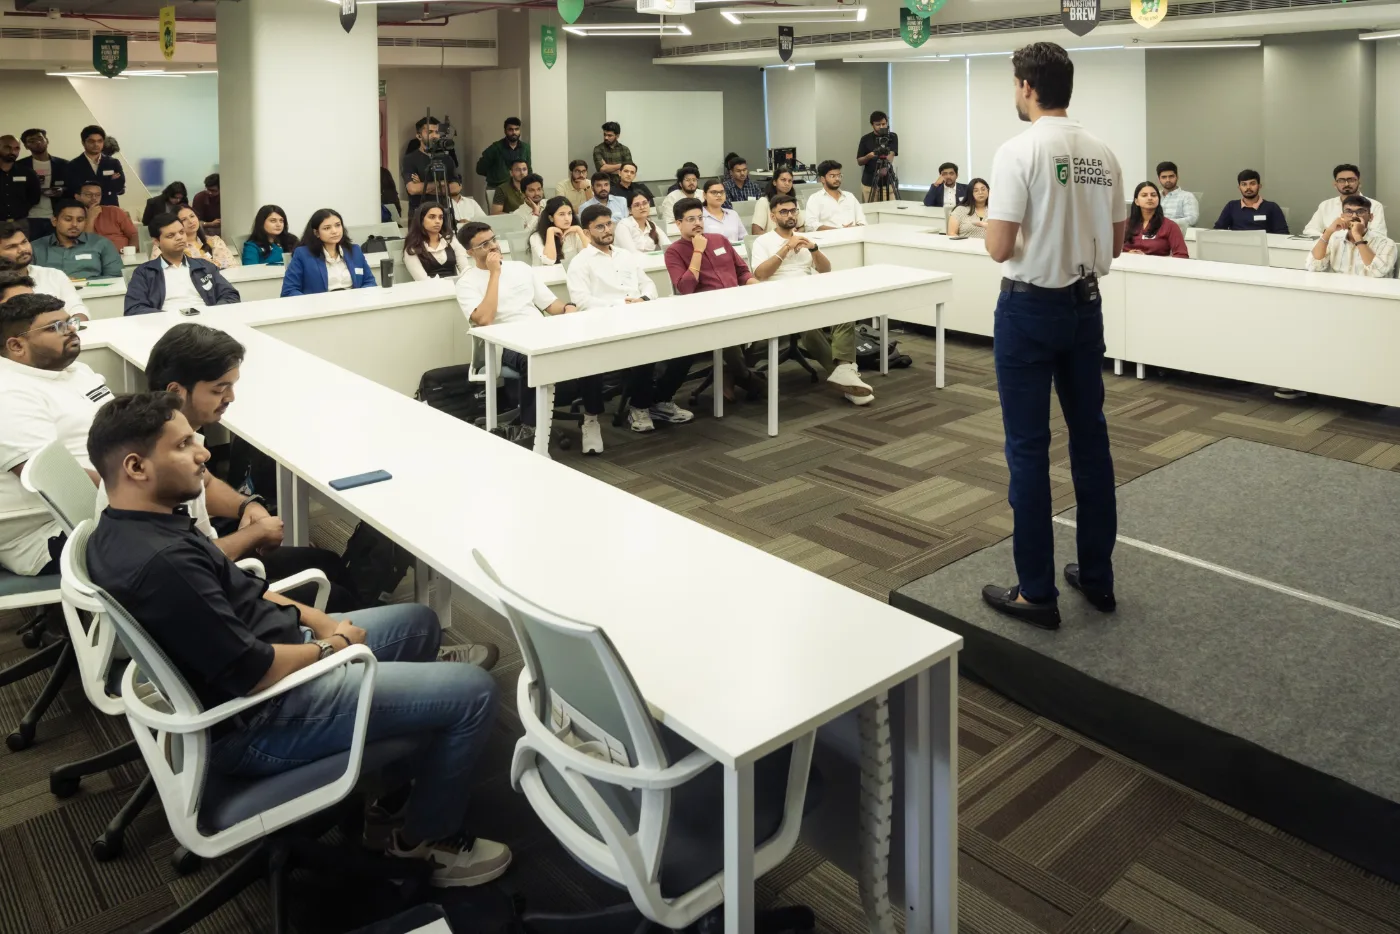
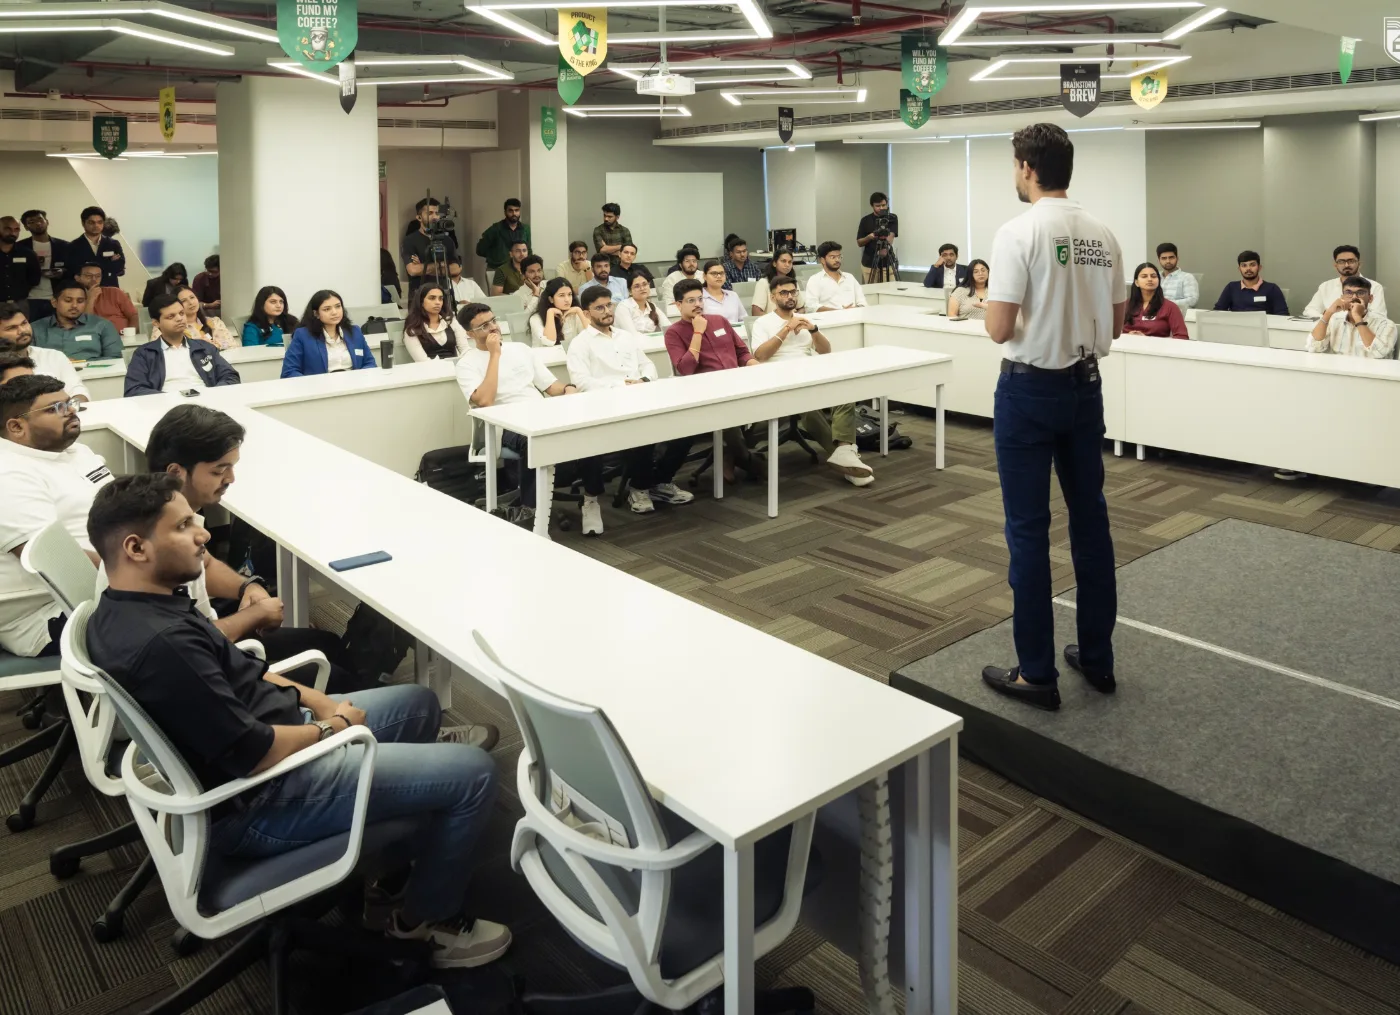
Terms 1 and 5: photos that hold faces on a phone's strip as well as the desktop card

diff --git a/src/sections/curriculum/journey/concepts/stage.tsx b/src/sections/curriculum/journey/concepts/stage.tsx
@@ -13,14 +13,16 @@ import './stage.css';
 
 /** The terms' photos, and their focal points. (2026-11-19, the user's picks) the team's own: 1 a class in
  *  session and 2 a team working a problem at the table (the old campus activities shoot), 3 a pitch on SSB's
- *  stage, 4 a student making his point in class (the same shoot), 5 Anupam Mittal on his visit. The shoot's
- *  corner logo is cropped off each file. */
+ *  stage, 4 a student making his point in class (the same shoot), 5 Anupam Mittal with the student founders who pitched him
+ *  (his close portrait was cut on a phone's strip). The shoot's
+ *  corner logo is cropped off each file (1's from the right edge only, so the speaker keeps his headroom). The
+ *  focal points hold faces in both shapes: the tall card on desktop, the wide strip on a phone (2026-11-19). */
 export const PHOTO: Record<number, { src: string; pos: string }> = {
-  1: { src: '/media/terms/t1.webp', pos: '72% 50%' },
-  2: { src: '/media/terms/t2.webp', pos: '52% 50%' },
+  1: { src: '/media/terms/t1.webp', pos: '72% 20%' },
+  2: { src: '/media/terms/t2.webp', pos: '52% 35%' },
   3: { src: '/media/terms/t3.webp', pos: '50% 45%' },
   4: { src: '/media/terms/t4.webp', pos: '50% 50%' },
-  5: { src: '/media/terms/t5.webp', pos: '50% 40%' },
+  5: { src: '/media/terms/t5.webp', pos: '35% 30%' },
 };
 /** [CONFIRM] the cohort's dates, as the stack's: Term 1 Jan–Mar 2027, each term three months on. */
 export const MONTHS: Record<number, [string, string]> = {
